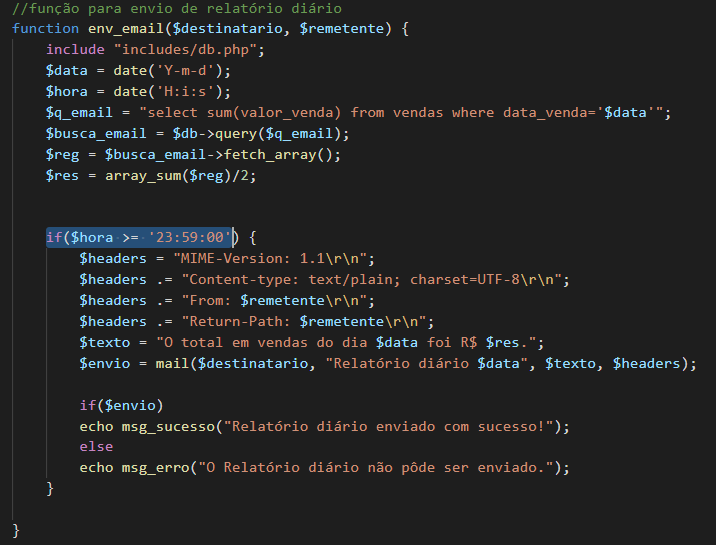
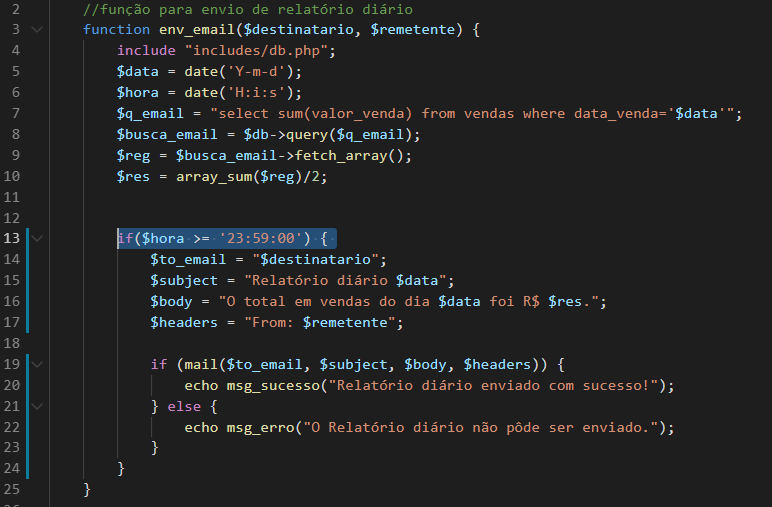
ADD - Ajustes finais

diff --git a/develop/functions.php b/develop/functions.php
@@ -10,20 +10,18 @@
         $res = array_sum($reg)/2;
 
 
-        if($hora >= '23:59:00') {
-            $headers = "MIME-Version: 1.1\r\n";
-            $headers .= "Content-type: text/plain; charset=UTF-8\r\n";
-            $headers .= "From: $remetente\r\n"; 
-            $headers .= "Return-Path: $remetente\r\n"; 
-            $texto = "O total em vendas do dia $data foi R$ $res.";
-            $envio = mail($destinatario, "Relatório diário $data", $texto, $headers);
+        if($hora >= '23:59:00') { 
+            $to_email = "$destinatario";
+            $subject = "Relatório diário $data";
+            $body = "O total em vendas do dia $data foi R$ $res.";
+            $headers = "From: $remetente";
             
-            if($envio) 
-            echo msg_sucesso("Relatório diário enviado com sucesso!");
-            else
-            echo msg_erro("O Relatório diário não pôde ser enviado.");
+            if (mail($to_email, $subject, $body, $headers)) {
+                echo msg_sucesso("Relatório diário enviado com sucesso!");
+            } else {
+                echo msg_erro("O Relatório diário não pôde ser enviado.");
+            }            
         } 
-
     }
 
     // ícone de voltar ao index

diff --git a/develop/index.php b/develop/index.php
@@ -14,7 +14,7 @@
         require_once "functions.php";
         $ordem = $_GET['o'] ?? "i";
         $chave = $_GET['c'] ?? "";
-        env_email("destino@email", "remetente@email")//inserir destinatário e remetente para envio do relatório diário de vendas
+        env_email("destino@email", "remetente@email");//inserir destinatário e remetente para envio do relatório diário de vendas
     ?>
     <div id="container">
         <?php include_once "header.php"; ?>
